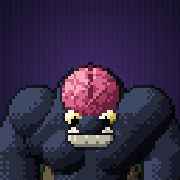
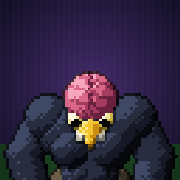
Brainless plus fin avec bec jaune, sprint à quatre pattes destructeur et barre de sprint

diff --git a/js/nomu.js b/js/nomu.js
@@ -1,5 +1,6 @@
 // BRAINLESS (le Nomu de l'USJ, saison 1) : modèle squelettique + animations.
 // Chaque frame est calculée à partir d'une pose puis rendue en pixel art.
+// Debout quand il marche, à quatre pattes quand il sprinte.
 import { renderModel, ramp, rotZ, add, ik, hash } from './raster.js';
 
 const SKIN = ramp('#08090e', '#161925', '#272c3f', '#3f4864');
@@ -7,16 +8,18 @@ const BRAIN = ramp('#6a2140', '#a33c5e', '#d8678a', '#f6a6bd');
 const PANTS = ramp('#1d1914', '#352e26', '#4f4535', '#6a5e49');
 const TEETH = ramp('#77746a', '#bbb6a4', '#e9e4d2', '#fffdf2');
 const EYE = ramp('#7c6a1c', '#c9b44a', '#eee298', '#fffbe0');
+const BEAK = ramp('#7a5208', '#c98f12', '#f2c230', '#ffe680');
+const BEAK_LOW = ramp('#5e3e06', '#a8760e', '#d9a924', '#f2cf5a');
 const MOUTH = [22, 6, 12];
 const PUPIL = [6, 4, 4];
 
 export const SPRITE_W = 64, SPRITE_H = 68, ORIGIN_X = 32, ORIGIN_Y = 62;
-export const SCALE = 0.8;
+export const SCALE = 0.72;
 
 export const ANIMS = {
   idle: { frames: 6, fps: 6, loop: true },
   walk: { frames: 8, fps: 11, loop: true },
-  run: { frames: 8, fps: 15, loop: true },
+  run: { frames: 8, fps: 16, loop: true }, // galop à quatre pattes
   punch: { frames: 8, fps: 18, loop: false },
   smash: { frames: 12, fps: 15, loop: false },
 };
@@ -27,9 +30,10 @@ const lerpV = (a, b, u) => [lerp(a[0], b[0], u), lerp(a[1], b[1], u), lerp(a[2],
 
 function basePose() {
   return {
-    fL: [-4.5, 0, 0], fR: [4.5, 0, 0],
-    hL: [-14, 2.5, 16], hR: [14, 2.5, 16],
+    fL: [-4, 0, 0], fR: [4, 0, 0],
+    hL: [-11, 2.5, 16], hR: [11, 2.5, 16],
     bob: 0, lean: 0, twist: 0, crouch: 0, lift: 0, breathe: 0, jaw: 0, nod: 0,
+    pitch: 0, headUp: 0, handsAbs: 0,
   };
 }
 
@@ -58,45 +62,61 @@ export function poseFor(anim, t) {
     const p = basePose();
     p.breathe = s;
     p.bob = s * 0.5;
-    p.hL = [-14, 2.5 + s * 0.6, 16 + s * 0.5];
-    p.hR = [14, 2.5 - s * 0.6, 16 + s * 0.5];
+    p.lean = 1;
+    p.hL = [-11, 2.5 + s * 0.6, 16 + s * 0.5];
+    p.hR = [11, 2.5 - s * 0.6, 16 + s * 0.5];
     p.nod = Math.sin(t * TAU + 1) * 0.5;
     return p;
   }
-  if (anim === 'walk' || anim === 'run') {
-    const run = anim === 'run';
+  if (anim === 'walk') {
     const ph = t * TAU, s = Math.sin(ph), c = Math.cos(ph);
-    const stride = run ? 7.5 : 5;
-    const lift = run ? 4.5 : 2.5;
-    const swing = run ? 7 : 4.5;
     const p = basePose();
-    p.fL = [-4.5, s * stride, Math.max(0, c) * lift];
-    p.fR = [4.5, -s * stride, Math.max(0, -c) * lift];
-    p.hL = [-14, 2.5 - s * swing, 16 + Math.max(0, -s) * (run ? 4 : 2)];
-    p.hR = [14, 2.5 + s * swing, 16 + Math.max(0, s) * (run ? 4 : 2)];
-    p.bob = (1 - Math.abs(s)) * (run ? 1.6 : 1) - 0.6;
-    p.twist = s * (run ? 0.16 : 0.1);
-    p.lean = run ? 3.5 : 1;
+    p.fL = [-4, s * 5, Math.max(0, c) * 2.5];
+    p.fR = [4, -s * 5, Math.max(0, -c) * 2.5];
+    p.hL = [-11, 2.5 - s * 4.5, 16 + Math.max(0, -s) * 2];
+    p.hR = [11, 2.5 + s * 4.5, 16 + Math.max(0, s) * 2];
+    p.bob = (1 - Math.abs(s)) - 0.6;
+    p.twist = s * 0.1;
+    p.lean = 1.5;
     p.nod = c * 0.5;
-    p.jaw = run ? 0.6 : 0;
+    return p;
+  }
+  if (anim === 'run') {
+    // Galop : pattes arrière puis bras avant, le dos ondule.
+    const ph = t * TAU;
+    const p = basePose();
+    const leg = (o) => [Math.sin(ph + o), Math.cos(ph + o)];
+    const [s1, c1] = leg(0), [s2, c2] = leg(0.6);
+    const [s3, c3] = leg(Math.PI), [s4, c4] = leg(Math.PI + 0.6);
+    p.fL = [-4, -7 + s1 * 7, Math.max(0, c1) * 5];
+    p.fR = [4, -7 + s2 * 7, Math.max(0, c2) * 5];
+    p.handsAbs = 1;
+    p.hL = [-6, 15 + s3 * 8, 2.8 + Math.max(0, c3) * 6];
+    p.hR = [6, 15 + s4 * 8, 2.8 + Math.max(0, c4) * 6];
+    p.crouch = 5;
+    p.bob = Math.sin(ph * 2) * 1.3;
+    p.pitch = 1.12 + Math.sin(ph) * 0.1;
+    p.headUp = 5;
+    p.jaw = 0.8;
+    p.twist = Math.sin(ph) * 0.06;
     return p;
   }
   if (anim === 'punch') {
     return keyed([
       { t: 0, p: {} },
-      { t: 0.28, p: { hR: [13, -9, 27], hL: [-10, 8, 24], twist: -0.45, lean: 1, crouch: 1.5, jaw: 0.5 } },
-      { t: 0.42, p: { hR: [3, 21, 31], hL: [-13, -3, 19], twist: 0.5, lean: 4, fL: [-4.5, 4, 0], fR: [4.5, -3, 0], jaw: 1 } },
-      { t: 0.62, p: { hR: [3, 20, 30], hL: [-13, -3, 19], twist: 0.45, lean: 4, fL: [-4.5, 4, 0], fR: [4.5, -3, 0], jaw: 1 } },
+      { t: 0.28, p: { hR: [10, -8, 27], hL: [-8, 8, 24], twist: -0.45, lean: 1, crouch: 1.5, jaw: 0.5 } },
+      { t: 0.42, p: { hR: [2, 20, 31], hL: [-10, -3, 19], twist: 0.5, lean: 4, fL: [-4, 4, 0], fR: [4, -3, 0], jaw: 1 } },
+      { t: 0.62, p: { hR: [2, 19, 30], hL: [-10, -3, 19], twist: 0.45, lean: 4, fL: [-4, 4, 0], fR: [4, -3, 0], jaw: 1 } },
       { t: 1, p: {} },
     ], t);
   }
   if (anim === 'smash') {
     return keyed([
       { t: 0, p: {} },
-      { t: 0.12, p: { crouch: 4, lean: 2, hL: [-13, 4, 14], hR: [13, 4, 14] } },
-      { t: 0.32, p: { hL: [-7, 3, 54], hR: [7, 3, 54], lift: 8, lean: -1.5, jaw: 1, fL: [-4.5, -1, 1], fR: [4.5, 1, 1] } },
-      { t: 0.48, p: { hL: [-6, 15, 7], hR: [6, 15, 7], crouch: 5, lean: 7, jaw: 1, fL: [-6, 0, 0], fR: [6, 0, 0] } },
-      { t: 0.75, p: { hL: [-6, 15, 7], hR: [6, 15, 7], crouch: 5, lean: 7, jaw: 0.7, fL: [-6, 0, 0], fR: [6, 0, 0] } },
+      { t: 0.12, p: { crouch: 4, lean: 2, hL: [-10, 4, 14], hR: [10, 4, 14] } },
+      { t: 0.32, p: { hL: [-6, 3, 53], hR: [6, 3, 53], lift: 8, lean: -1.5, jaw: 1, fL: [-4, -1, 1], fR: [4, 1, 1] } },
+      { t: 0.48, p: { hL: [-5, 15, 7], hR: [5, 15, 7], crouch: 5, lean: 7, jaw: 1, fL: [-5.5, 0, 0], fR: [5.5, 0, 0] } },
+      { t: 0.75, p: { hL: [-5, 15, 7], hR: [5, 15, 7], crouch: 5, lean: 7, jaw: 0.7, fL: [-5.5, 0, 0], fR: [5.5, 0, 0] } },
       { t: 1, p: {} },
     ], t);
   }
@@ -107,69 +127,80 @@ export function nomuParts(P) {
   const tw = P.twist;
   const ub = [0, P.lean * 0.6, P.bob + P.lift - P.crouch * 0.8];
   const hip = [0, P.lean * 0.15, 20 - P.crouch + P.bob + P.lift];
-  const U = (p) => add(rotZ(p, tw), ub); // point du haut du corps
+  // Bascule du buste vers l'avant autour du bassin (galop à quatre pattes).
+  const cp = Math.cos(P.pitch), sp = Math.sin(P.pitch);
+  const pitch = (p) => {
+    const rf = p[1] - hip[1], rz = p[2] - hip[2];
+    return [p[0], hip[1] + rf * cp + rz * sp, hip[2] - rf * sp + rz * cp];
+  };
+  const U = (p) => pitch(add(rotZ(p, tw), ub)); // point du haut du corps
   const parts = [];
 
   // --- jambes ---
   for (const side of [-1, 1]) {
     const f = side < 0 ? P.fL : P.fR;
     const g = side < 0 ? 8 : 9;
-    const hipJ = add(hip, [side * 5, 0, 0]);
+    const hipJ = add(hip, [side * 4, 0, 0]);
     const ankle = [f[0], f[1], 3 + f[2] + P.lift];
     const knee = ik(hipJ, ankle, 9.5, 9, [0, 1, 0.15]);
     const mid = lerpV(knee, ankle, 0.5);
-    parts.push({ a: hipJ, b: knee, r1: 5, r2: 4.4, ramp: PANTS, group: g });
+    parts.push({ a: hipJ, b: knee, r1: 4, r2: 3.5, ramp: PANTS, group: g });
     parts.push({
-      a: knee, b: mid, r1: 4.4, r2: 4.1, ramp: PANTS, group: g,
+      a: knee, b: mid, r1: 3.5, r2: 3.2, ramp: PANTS, group: g,
       tex: (p) => (p.t > 0.65 && hash(p.x, p.y, side) < 0.45 ? null : p.shade), // bas déchiré
     });
-    parts.push({ a: mid, b: ankle, r1: 3.3, r2: 2.9, ramp: SKIN, group: g });
-    parts.push({ a: ankle, b: add(ankle, [side * 0.5, 4.2, -1.8]), r1: 2.7, r2: 2.3, ramp: SKIN, group: g });
+    parts.push({ a: mid, b: ankle, r1: 2.7, r2: 2.3, ramp: SKIN, group: g });
+    parts.push({ a: ankle, b: add(ankle, [side * 0.5, 3.8, -1.8]), r1: 2.2, r2: 1.9, ramp: SKIN, group: g });
   }
-  parts.push({ a: hip, r1: 7, ramp: PANTS, group: 10 });
+  parts.push({ a: hip, r1: 5.6, ramp: PANTS, group: 10 });
 
-  // --- torse massif ---
-  parts.push({ a: add(hip, [0, 1.5, 3]), b: U([0, 0.5, 29]), r1: 7.6, r2: 8.6, ramp: SKIN, group: 1 });
-  parts.push({ a: U([-7, -0.5, 32.5]), b: U([7, -0.5, 32.5]), r1: 7, ramp: SKIN, group: 1 });
-  parts.push({ a: U([0, -3, 36.5 + P.breathe * 0.3]), r1: 7.5, ramp: SKIN, group: 1 });
-  parts.push({ a: U([-4.7, 4.3, 30.5 + P.breathe * 0.3]), r1: 5.3, ramp: SKIN, group: 11 });
-  parts.push({ a: U([4.7, 4.3, 30.5 + P.breathe * 0.3]), r1: 5.3, ramp: SKIN, group: 12 });
+  // --- torse sec et musclé ---
+  const br = P.breathe * 0.3;
+  parts.push({ a: pitch(add(hip, [0, 1.2, 3])), b: U([0, 0.5, 29]), r1: 5.8, r2: 6.8, ramp: SKIN, group: 1 });
+  parts.push({ a: U([-5.5, -0.5, 32.5]), b: U([5.5, -0.5, 32.5]), r1: 5.5, ramp: SKIN, group: 1 });
+  parts.push({ a: U([0, -2.5, 35.5 + br]), r1: 6, ramp: SKIN, group: 1 });
+  parts.push({ a: U([-3.8, 3.4, 30.5 + br]), r1: 4.3, ramp: SKIN, group: 11 });
+  parts.push({ a: U([3.8, 3.4, 30.5 + br]), r1: 4.3, ramp: SKIN, group: 12 });
   // abdos
-  parts.push({ a: add(hip, [-2.2, 5.6, 6.5]), b: add(lerpV(hip, U([0, 0, 29]), 0.62), [-2.2, 5.2, 0]), r1: 2.6, ramp: SKIN, group: 13 });
-  parts.push({ a: add(hip, [2.2, 5.6, 6.5]), b: add(lerpV(hip, U([0, 0, 29]), 0.62), [2.2, 5.2, 0]), r1: 2.6, ramp: SKIN, group: 13 });
-
-  // --- bras ---
-  for (const side of [-1, 1]) {
-    const hand = add(side < 0 ? P.hL : P.hR, ub);
-    const g = side < 0 ? 6 : 7;
-    const sh = U([side * 11, -1, 35 + P.breathe * 0.4]);
-    const elbow = ik(sh, hand, 11, 10.5, [side * 0.7, -0.7, -0.2]);
-    parts.push({ a: sh, r1: 5.7, ramp: SKIN, group: g });
-    parts.push({ a: sh, b: elbow, r1: 5, r2: 4.3, ramp: SKIN, group: g });
-    parts.push({ a: elbow, b: hand, r1: 4.5, r2: 3.7, ramp: SKIN, group: g });
-    parts.push({ a: hand, r1: 4, ramp: SKIN, group: g });
+  for (const x of [-1.8, 1.8]) {
+    parts.push({ a: pitch(add(hip, [x, 4.6, 6.5])), b: U([x, 4.3, 25]), r1: 2.1, ramp: SKIN, group: 13 });
   }
 
-  // --- tête : petite, en avant, cerveau à l'air ---
-  const head = add(U([0, 4.5, 38.5 + P.nod * 0.4]), [0, P.lean * 0.35, 0]);
+  // --- bras longs ---
+  for (const side of [-1, 1]) {
+    const h = side < 0 ? P.hL : P.hR;
+    const hand = P.handsAbs ? h : pitch(add(h, ub));
+    const g = side < 0 ? 6 : 7;
+    const sh = U([side * 8.6, -1, 34.5 + P.breathe * 0.4]);
+    const elbow = ik(sh, hand, 11, 10.5, [side * 0.7, -0.7, -0.2]);
+    parts.push({ a: sh, r1: 4.6, ramp: SKIN, group: g });
+    parts.push({ a: sh, b: elbow, r1: 4, r2: 3.4, ramp: SKIN, group: g });
+    parts.push({ a: elbow, b: hand, r1: 3.6, r2: 3, ramp: SKIN, group: g });
+    parts.push({ a: hand, r1: 3.2, ramp: SKIN, group: g });
+  }
+
+  // --- tête : cerveau à l'air, gros yeux, bec jaune plein de dents ---
+  const head = add(U([0, 4, 38 + P.nod * 0.4]), [0, P.lean * 0.35, P.headUp]);
   const H = (p) => add(head, rotZ(p, tw));
-  parts.push({ a: head, r1: 4.7, ramp: SKIN, group: 2 });
-  parts.push({ a: H([0, 3.3, -0.6]), r1: 3, ramp: SKIN, group: 2 }); // museau / bec
+  const jaw = P.jaw;
+  parts.push({ a: head, r1: 4.2, ramp: SKIN, group: 2 });
+  parts.push({ a: H([0, 2.4, -0.4]), b: H([0, 7.2, -1.4]), r1: 2.6, r2: 0.9, ramp: BEAK, group: 14 });
+  parts.push({ a: H([0, 2.2, -2.6 - jaw]), b: H([0, 6, -2.9 - jaw * 1.4]), r1: 1.9, r2: 0.8, ramp: BEAK_LOW, group: 15 });
   parts.push({
-    a: H([-2.5, 4.1, -2.5 - P.jaw * 0.6]), b: H([2.5, 4.1, -2.5 - P.jaw * 0.6]), r1: 2.2, ramp: TEETH, group: 5,
+    a: H([-1.7, 3.8, -1.9 - jaw * 0.5]), b: H([1.7, 3.8, -1.9 - jaw * 0.5]), r1: 1.25 + jaw * 0.3, ramp: TEETH, group: 5,
     tex: (p) => {
-      if (p.ey > -0.6 && p.ey < 0.4 + P.jaw * 0.9) return MOUTH;
+      if (Math.abs(p.ey) < 0.35 + jaw * 0.3) return MOUTH;
       return (p.x & 1) && p.shade > 1 ? p.shade - 1 : p.shade;
     },
   });
   for (const side of [-1, 1]) {
     parts.push({
-      a: H([side * 3.2, 2.8, 1]), r1: 1.95, ramp: EYE, group: 4,
+      a: H([side * 2.9, 2.4, 1]), r1: 1.8, ramp: EYE, group: 4,
       tex: (p) => (p.nx * p.fc[0] + p.ny * p.fc[1] + p.nz * p.fc[2] > 0.82 ? PUPIL : p.shade),
     });
   }
   parts.push({
-    a: H([0, -0.8, 4.3]), r1: 5.7, ramp: BRAIN, group: 3,
+    a: H([0, -0.8, 4]), r1: 5.1, ramp: BRAIN, group: 3,
     tex: (p) => {
       const u = p.ex / p.r, v = p.ey / p.r;
       const fold = Math.sin(u * 8.5 + Math.sin(v * 7) * 1.6) * Math.cos(v * 6 - u * 2);

diff --git a/js/main.js b/js/main.js
@@ -120,7 +120,7 @@ const world = new World(SEED);
 const stats = { trees: 0, rocks: 0, smash: 0 };
 let tod = 0.3;
 let time = 0;
-const player = { x: 0, y: 0, z: 0, dir: 2, anim: 'idle', t: 0, action: null, actionT: 0, hitDone: false, dustT: 0 };
+const player = { x: 0, y: 0, z: 0, dir: 2, anim: 'idle', t: 0, action: null, actionT: 0, hitDone: false, dustT: 0, stamina: 1, tired: false, sprinting: false };
 const hits = new Map();
 const particles = [];
 const flyers = []; // papillons / lucioles
@@ -341,6 +341,23 @@ function doPunchHit() {
   else burst(hx, hy, gz + 18, ['#ffffff', '#d8e0f0'], 5, { up: 10, g: 0, life: 0.25, speed: 1.2 });
 }
 
+// En sprint, Brainless pulvérise tout ce qui se trouve devant lui.
+function trample(vx, vy) {
+  const fx0 = player.x + vx * 0.45, fy0 = player.y + vy * 0.45;
+  for (let ty = Math.floor(fy0) - 1; ty <= Math.floor(fy0) + 1; ty++) {
+    for (let tx = Math.floor(fx0) - 1; tx <= Math.floor(fx0) + 1; tx++) {
+      const o = world.objAt(tx, ty);
+      const info = OBJ_INFO[o];
+      if (!info) continue;
+      const d = Math.hypot(fx0 - (tx + 0.5), fy0 - (ty + 0.5));
+      if (d > (info.solid || 0.2) + 0.4) continue;
+      // détruit d'un coup, souche et cailloux compris
+      while (world.objAt(tx, ty) !== O.NONE && damage(tx, ty, 99)) { /* casse jusqu'au bout */ }
+      if (info.solid) shake = Math.max(shake, 3);
+    }
+  }
+}
+
 function doSmash() {
   stats.smash++;
   shake = 7;
@@ -391,11 +408,16 @@ function update(dt) {
     if (player.actionT >= 1) { player.action = null; player.t = 0; }
   } else {
     const mag = Math.min(1, Math.hypot(ix, iy));
+    // Sprint à quatre pattes : vide la barre ; une fois vide, il faut qu'elle remonte à 35 %.
+    if (player.stamina <= 0) player.tired = true;
+    if (player.tired && player.stamina >= 0.35) player.tired = false;
+    const run = mag > 0.72 && !player.tired;
+    player.sprinting = run && mag > 0.15;
     if (mag > 0.15) {
-      const run = mag > 0.72;
-      const speed = run ? 4.3 : 2.2;
+      const speed = run ? 5.6 : 2.2;
       const cx = ix / mag, ct = iy / mag;
       const vx = (cx + ct) / Math.SQRT2, vy = (ct - cx) / Math.SQRT2;
+      if (run) trample(vx, vy);
       tryMove(vx * speed * dt, vy * speed * dt);
       player.dir = ((Math.round(Math.atan2(ct, cx) / (Math.PI / 4)) % 8) + 8) % 8;
       setAnim(run ? 'run' : 'walk');
@@ -410,6 +432,8 @@ function update(dt) {
       }
     } else setAnim('idle');
   }
+  if (player.sprinting) player.stamina = Math.max(0, player.stamina - dt / 4.5);
+  else player.stamina = Math.min(1, player.stamina + dt / (player.tired ? 3 : 5));
   const A = ANIMS[player.anim];
   player.t += dt * A.fps;
 
@@ -693,16 +717,32 @@ function drawSky() {
   ctx.globalCompositeOperation = 'source-over';
 }
 
+function drawSprintBar(x, y) {
+  const w = 52, fill = Math.round((w - 2) * player.stamina);
+  const blink = player.tired && Math.floor(time * 6) % 2;
+  drawText(ctx, 'SPRINT', x, y, player.tired ? '#ff7a7a' : '#ffe28a');
+  const bx = x + 26;
+  ctx.fillStyle = 'rgba(0,0,0,0.55)';
+  ctx.fillRect(bx, y - 1, w, 7);
+  ctx.fillStyle = '#20243a';
+  ctx.fillRect(bx + 1, y, w - 2, 5);
+  ctx.fillStyle = player.tired ? (blink ? '#ff4d5e' : '#a8304a') : player.sprinting ? '#ffd23f' : '#f2a93b';
+  ctx.fillRect(bx + 1, y, fill, 5);
+  ctx.fillStyle = 'rgba(255,255,255,0.45)';
+  ctx.fillRect(bx + 1, y, fill, 1);
+}
+
 function drawHUD() {
   layoutButtons();
   const x0 = 6 + safe.l, y0 = 6 + safe.t;
   drawText(ctx, 'BRAINLESS', x0, y0, '#f6a6bd');
   const night = darkness() > 0.5;
   drawText(ctx, (night ? 'NUIT' : 'JOUR') + '  ARBRES ' + stats.trees + '  ROCHERS ' + stats.rocks, x0, y0 + 8, '#e8f0ff');
+  drawSprintBar(x0, y0 + 17);
 
   if (hintT > 0) {
     ctx.globalAlpha = Math.min(1, hintT / 1.5);
-    const l1 = 'GLISSE A GAUCHE POUR MARCHER';
+    const l1 = 'POUSSE A FOND POUR SPRINTER';
     const l2 = 'A: FRAPPER   B: SMASH';
     drawText(ctx, l1, Math.round(VW / 2 - textWidth(l1) / 2), Math.round(VH * 0.25), '#ffffff');
     drawText(ctx, l2, Math.round(VW / 2 - textWidth(l2) / 2), Math.round(VH * 0.25) + 8, '#ffe28a');
@@ -737,6 +777,7 @@ function frame(now) {
 
 (async function start() {
   load();
+  if (location.hash === '#debug') window.BRAINLESS = { world, player, stats, O };
   await loadAssets();
   loading.style.display = 'none';
   requestAnimationFrame((t) => { last = t; frame(t); });

diff --git a/sw.js b/sw.js
@@ -1,6 +1,6 @@
 // Cache hors-ligne : le jeu marche même sans réseau une fois ouvert.
 // Change VERSION à chaque mise à jour pour forcer le rafraîchissement.
-const VERSION = 'brainless-v1';
+const VERSION = 'brainless-v2';
 const FILES = [
   './', './index.html', './manifest.webmanifest',
   './js/main.js', './js/world.js', './js/noise.js', './js/raster.js', './js/nomu.js', './js/sprites.js', './js/font.js',

diff --git a/README.md b/README.md
@@ -6,7 +6,7 @@ s'installe sur l'écran d'accueil (PWA, marche hors-ligne).
 
 ## Jouer
 - **iPhone** : ouvrir l'URL GitHub Pages dans Safari → Partager → *Sur l'écran d'accueil*.
-- Pouce gauche : joystick (pousser à fond = courir). **A** : coup de poing. **B** : smash au sol.
+- Pouce gauche : joystick. Un peu poussé = il marche debout ; à fond = sprint à quatre pattes qui pulvérise arbres et rochers (barre de sprint en haut à gauche). **A** : coup de poing. **B** : smash au sol.
 - Clavier : flèches/ZQSD, Maj = marcher, Espace/J = coup, K/E = smash.
 - La position, les arbres abattus et l'heure sont sauvegardés automatiquement.
 
